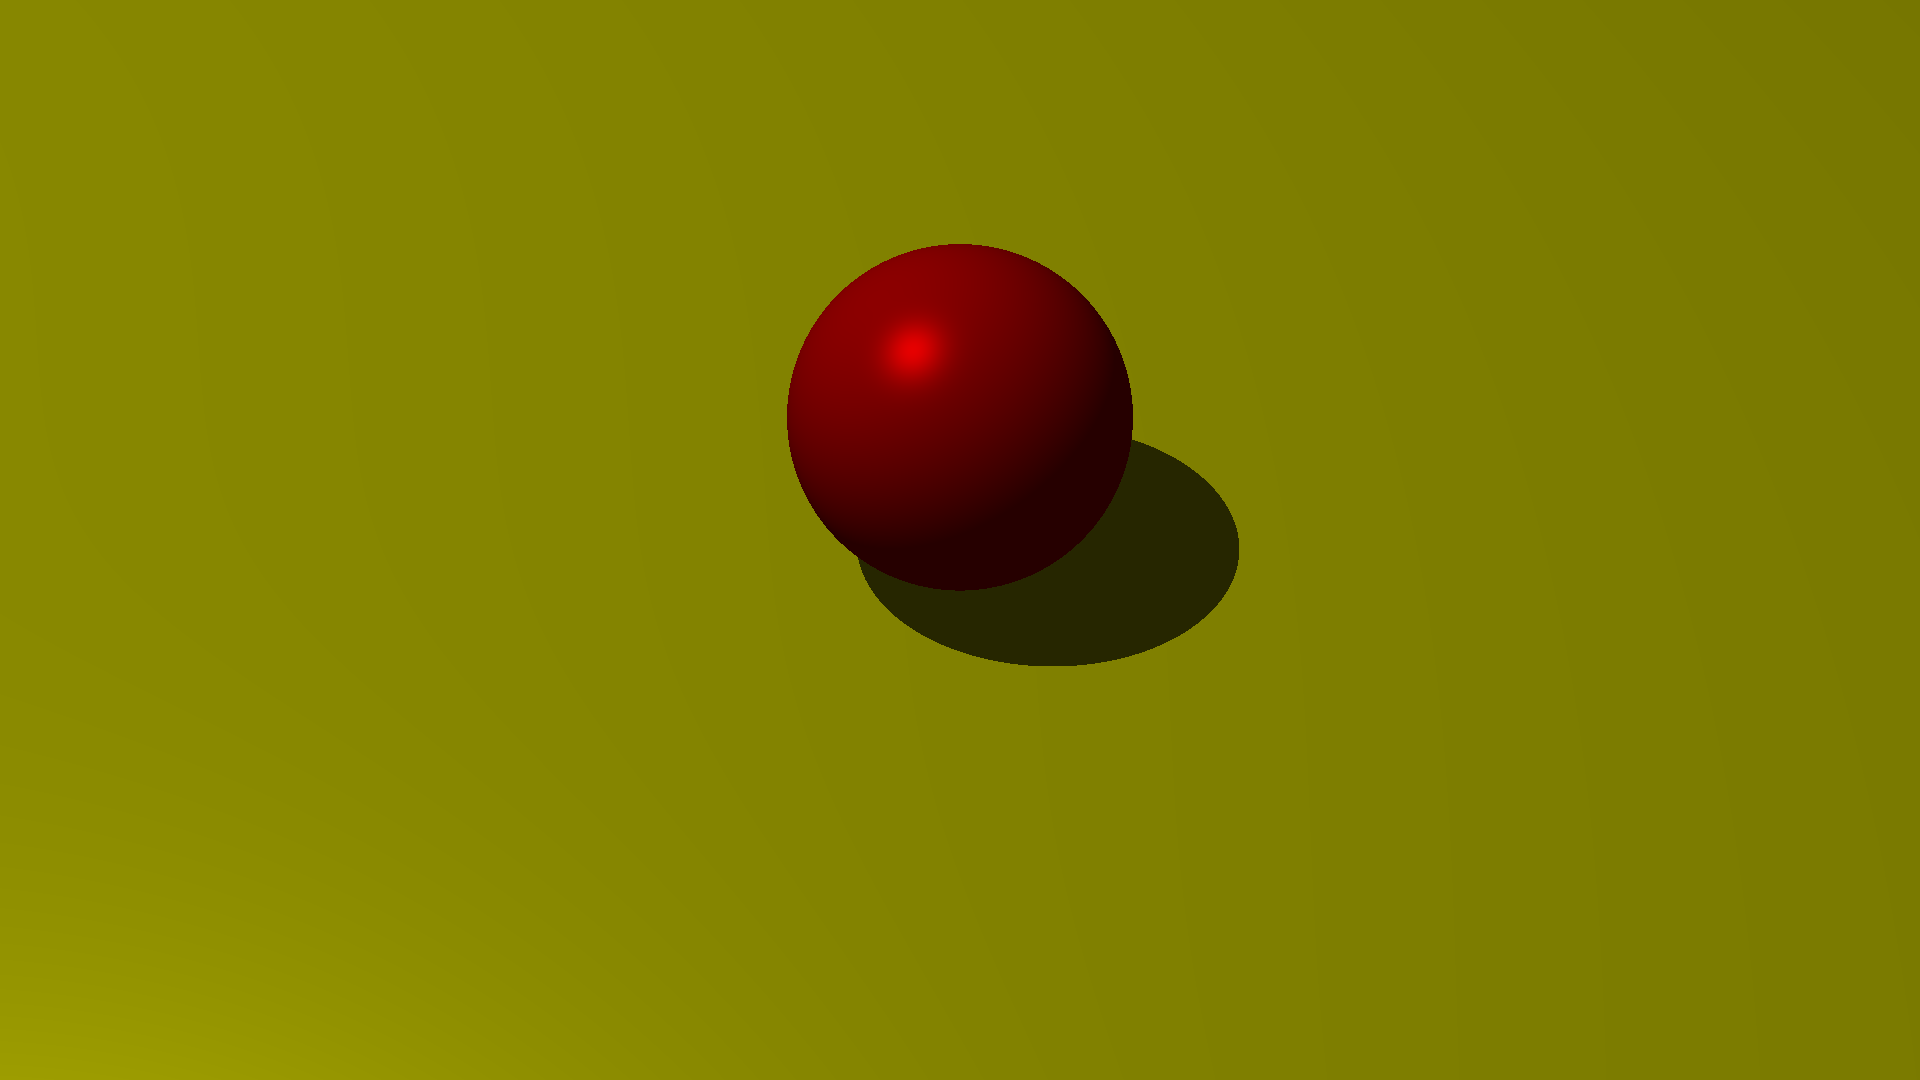
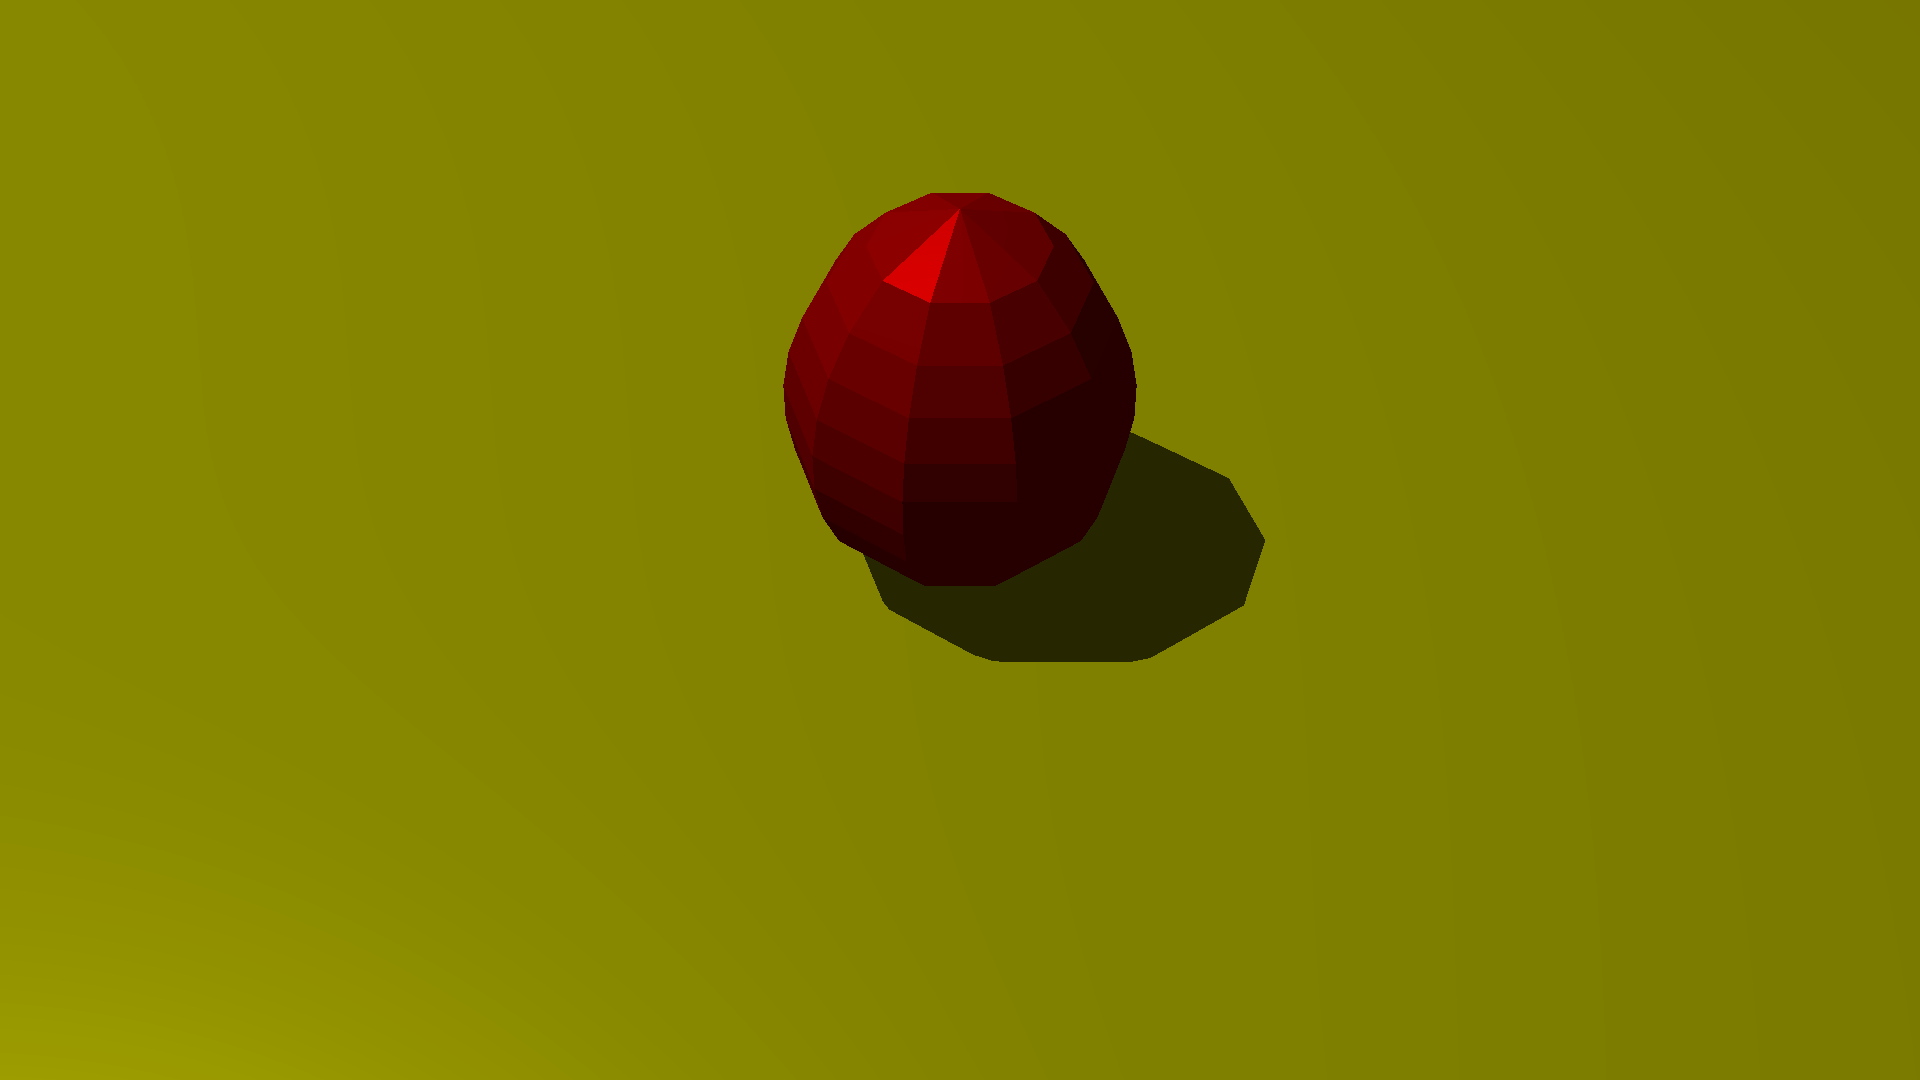
Color limit and sphere scale fix

diff --git a/PovRay/src/povview/elements/objects/sphere.py b/PovRay/src/povview/elements/objects/sphere.py
@@ -1,4 +1,5 @@
 from math import cos, pi, sin, sqrt
+from numbers import Number
 
 from povview.math.utils import handle_value
 from povview.math.vector import Vec3
@@ -24,6 +25,16 @@ class Sphere(Object3D):
 
     def get_radius(self, initial_radius: float, relative_height: float):
         return sqrt(initial_radius**2 - relative_height**2)
+
+    def apply_scale(self, scale_vector):
+        super().apply_scale(scale_vector)
+
+        if isinstance(scale_vector, tuple):
+            self.radius *= scale_vector[0]
+        elif isinstance(scale_vector, Number):
+            self.radius *= scale_vector
+        else:
+            raise TypeError("scale_vector must be Vec3 or Number")
 
     def intersection(self, ray):
         hitlist = HitList()

diff --git a/PovRay/src/povview/math/utils.py b/PovRay/src/povview/math/utils.py
@@ -3,9 +3,9 @@ def sign(num):
     return (num > 0) - (num < 0)
 
 
-def handle_value(value):
+def handle_value(value) -> tuple:
     if isinstance(value, list) or isinstance(value, tuple):
-        return value
+        return tuple(value)
     elif isinstance(value, dict):
         return (value["x"], value["y"], value["z"])
     else:

diff --git a/PovRay/src/povview/tracer.py b/PovRay/src/povview/tracer.py
@@ -134,7 +134,7 @@ class Tracer:
             + specular * SPECULAR_WEIGHT
         )
 
-        return hit.obj.color * lighting
+        return (hit.obj.color * lighting).limit()
 
     def trace(self, ray):
         match self.model:
